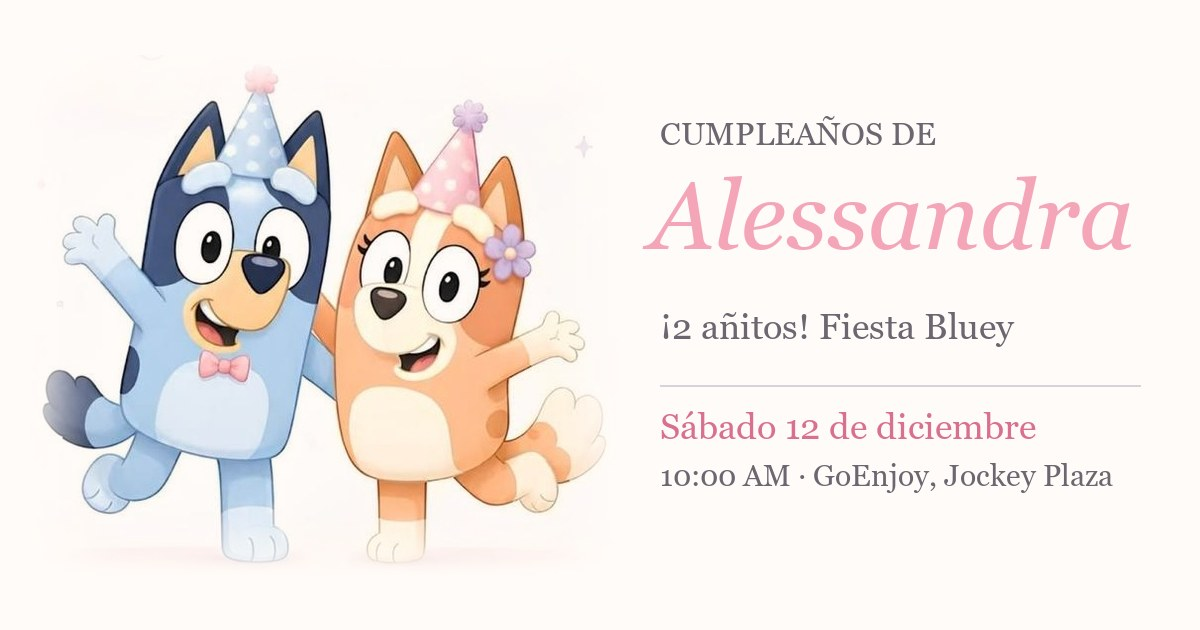
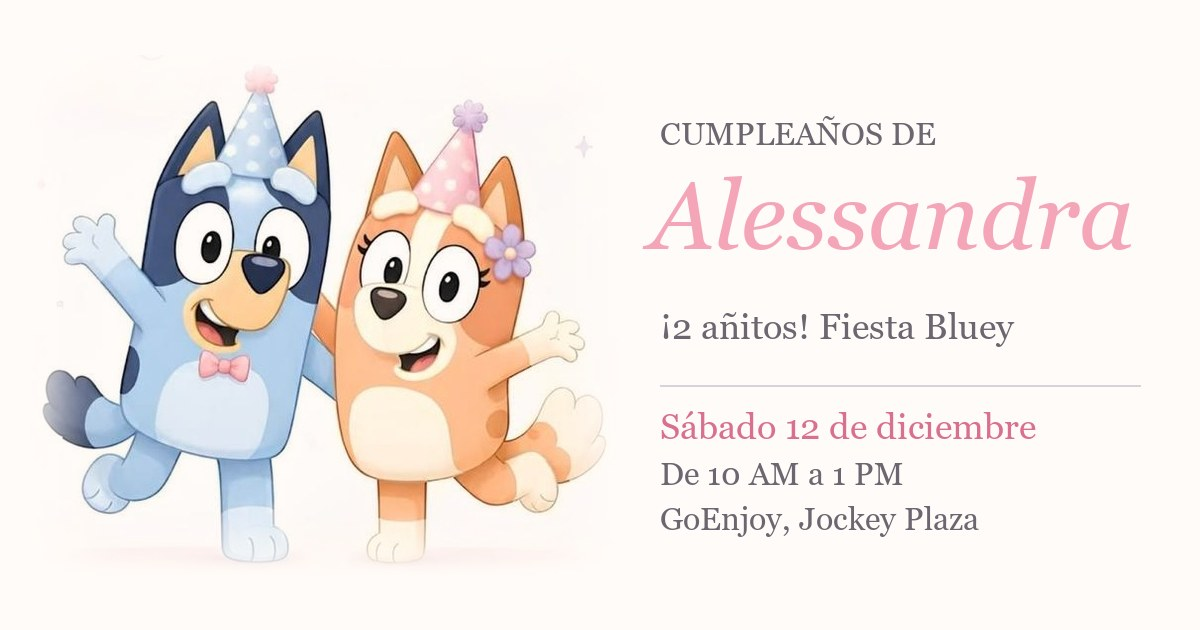
Add files via upload

Changed region(s): [[0.555, 0.7238, 0.925, 0.7841], [0.555, 0.8143, 0.8325, 0.8444]]

diff --git a/index.html b/index.html
@@ -6,7 +6,7 @@
 <meta name="theme-color" content="#FFFBF8">
 <meta property="og:type" content="website">
 <meta property="og:title" content="Cumpleaños de Alessandra">
-<meta property="og:description" content="¡Alessandra cumple 2 años! Sábado 12 de diciembre, 10:00 AM, GoEnjoy - Jockey Plaza. Abre tu invitación y confirma asistencia.">
+<meta property="og:description" content="¡Alessandra cumple 2 años! Sábado 12 de diciembre, de 10 AM a 1 PM, GoEnjoy - Jockey Plaza. Abre tu invitación y confirma asistencia.">
 <meta property="og:image" content="https://motionabner.github.io/alessandra-cumple/og.jpg">
 <meta property="og:image:width" content="1200">
 <meta property="og:image:height" content="630">
@@ -210,7 +210,7 @@
   <div class="when">
     <span class="side">Sábado</span>
     <span class="mid"><span class="month">DICIEMBRE</span><span class="day">12</span></span>
-    <span class="side">10:00 AM</span>
+    <span class="side">10 AM a 1 PM</span>
   </div>
 
   <p class="where"><span class="venue">GOENJOY</span><span class="place">Jockey Plaza · Lima</span></p>
